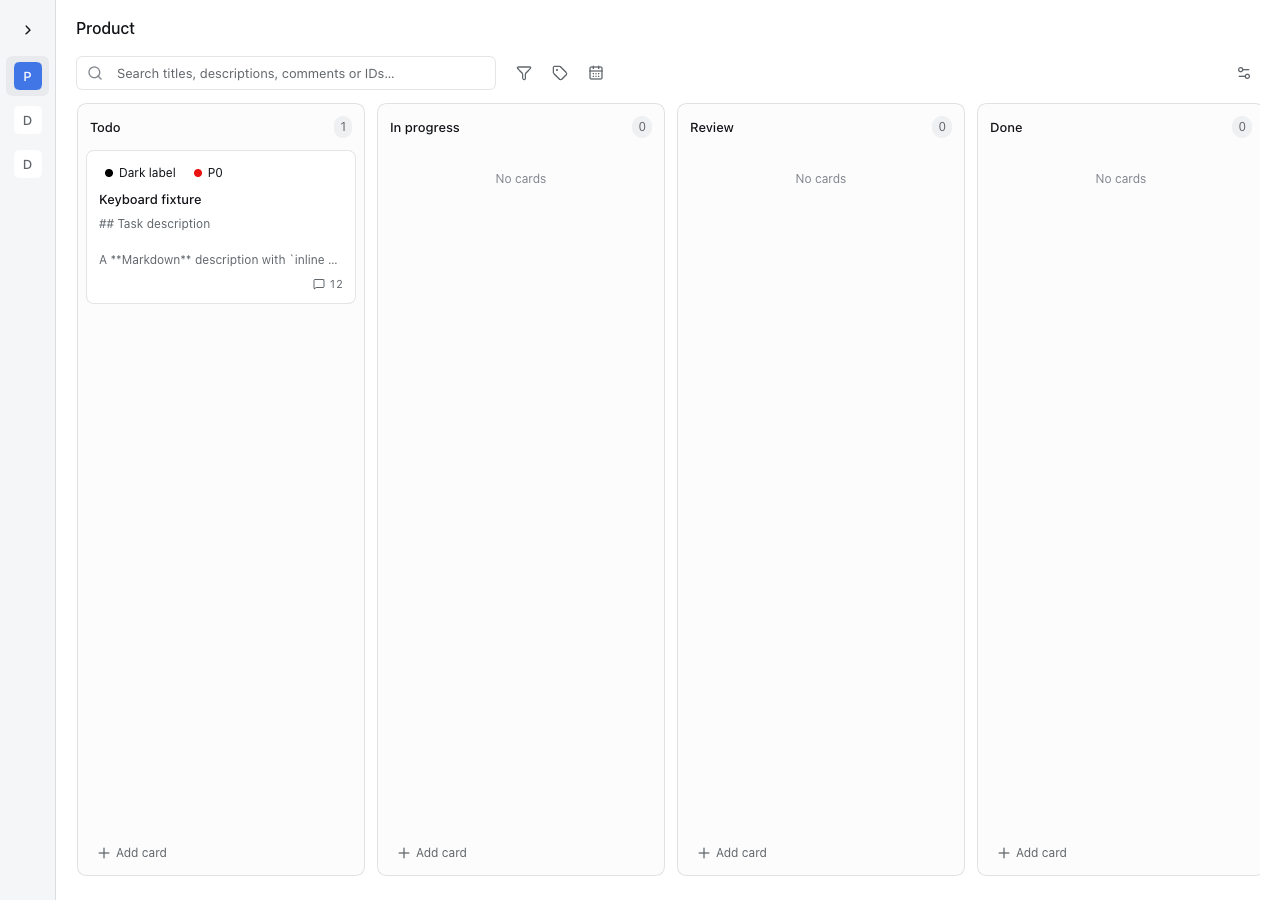
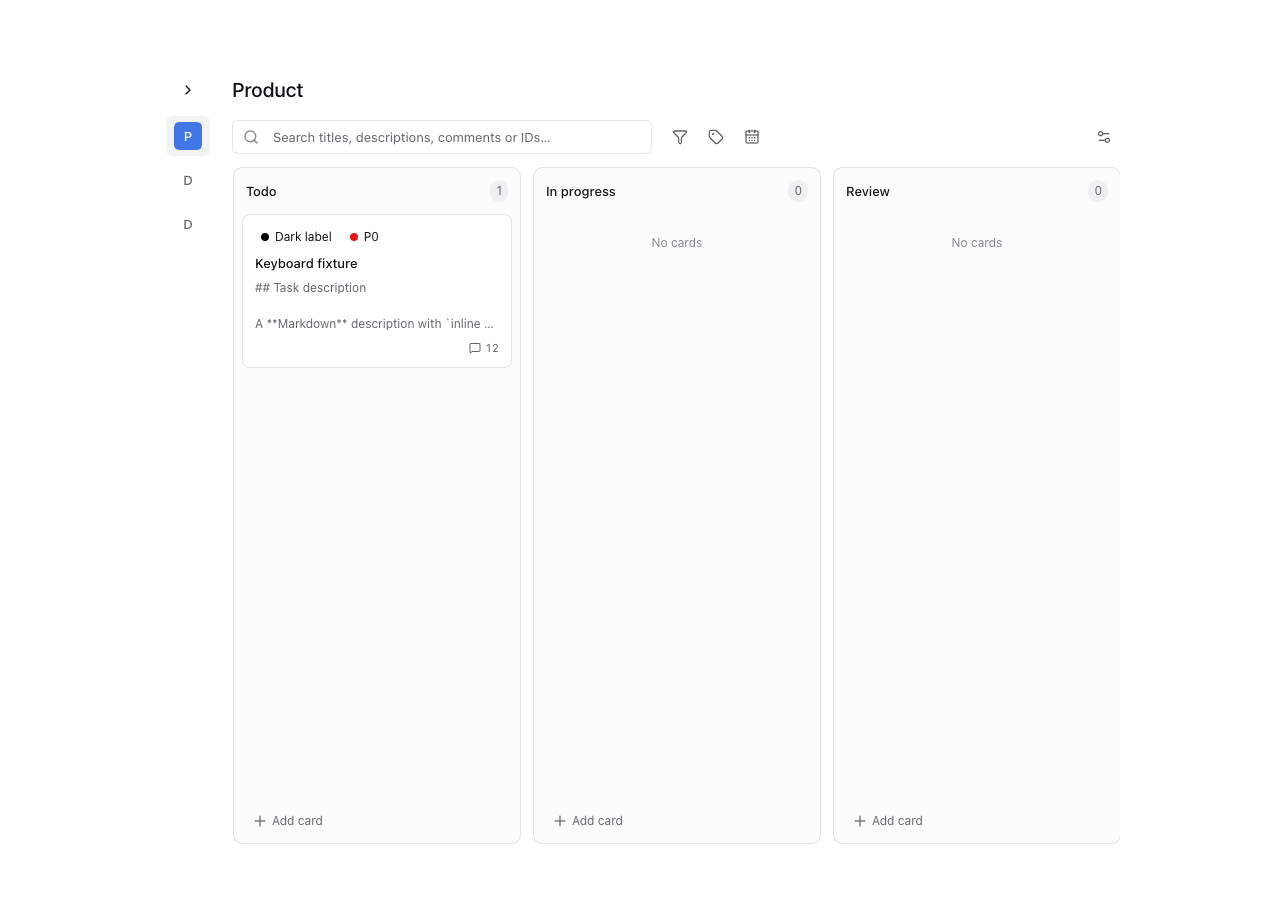
fix: align kanban page spacing with DSH panels

diff --git a/lib/client.js b/lib/client.js
@@ -60,6 +60,15 @@ window.__ModuleLoader__.load({
   min-height: 0;
   overflow: hidden;
   container-type: inline-size;
+  max-width: 1056px;
+  margin-inline: auto;
+  gap: 16px;
+  padding: 28px clamp(24px, 4vw, 48px) 48px;
+}
+
+/* Match DSH entry pages while keeping window chrome outside the content. */
+html[data-platform="darwin"] .kanban-panel {
+  padding-top: calc(28px + var(--dsh-frame-top-clearance, 0px));
 }
 
 .kanban-workspaces {
@@ -69,9 +78,9 @@ window.__ModuleLoader__.load({
   flex: 0 0 auto;
   flex-direction: column;
   gap: 12px;
-  padding: 16px 8px;
-  border-right: 1px solid var(--dsw-alias-border-l2);
-  background: var(--dsw-alias-bg-module-platform);
+  max-height: 100%;
+  align-self: flex-start;
+  padding: 0 8px;
 }
 
 .kanban-workspaces-heading {
@@ -166,39 +175,33 @@ window.__ModuleLoader__.load({
 
 .kanban-panel-header {
   flex-shrink: 0;
-  padding: 16px 20px 8px;
+  padding: 0 0 8px;
 }
 
 .kanban-panel-header h1 {
   margin: 0;
   overflow: hidden;
-  font-size: 16px;
+  font-size: 20px;
   font-weight: 500;
-  line-height: 24px;
+  line-height: 28px;
   text-overflow: ellipsis;
   white-space: nowrap;
 }
 
 .kanban-panel-empty {
-  padding: 32px 20px;
+  padding: 32px 0;
   color: var(--dsw-alias-label-secondary);
 }
 
 .kanban-panel-body > .kanban-view {
   height: auto;
   flex: 1;
-  padding: 8px 20px 16px;
+  padding: 8px 0 0;
 }
 
 @container (max-width: 720px) {
   .kanban-workspace-button {
     height: 44px;
-  }
-  .kanban-panel-header {
-    padding-inline: 12px;
-  }
-  .kanban-panel-body > .kanban-view {
-    padding-inline: 12px;
   }
 }
 

diff --git a/src/client/styles.css b/src/client/styles.css
@@ -55,6 +55,15 @@
   min-height: 0;
   overflow: hidden;
   container-type: inline-size;
+  max-width: 1056px;
+  margin-inline: auto;
+  gap: 16px;
+  padding: 28px clamp(24px, 4vw, 48px) 48px;
+}
+
+/* Match DSH entry pages while keeping window chrome outside the content. */
+html[data-platform="darwin"] .kanban-panel {
+  padding-top: calc(28px + var(--dsh-frame-top-clearance, 0px));
 }
 
 .kanban-workspaces {
@@ -64,9 +73,9 @@
   flex: 0 0 auto;
   flex-direction: column;
   gap: 12px;
-  padding: 16px 8px;
-  border-right: 1px solid var(--dsw-alias-border-l2);
-  background: var(--dsw-alias-bg-module-platform);
+  max-height: 100%;
+  align-self: flex-start;
+  padding: 0 8px;
 }
 
 .kanban-workspaces-heading {
@@ -161,39 +170,33 @@
 
 .kanban-panel-header {
   flex-shrink: 0;
-  padding: 16px 20px 8px;
+  padding: 0 0 8px;
 }
 
 .kanban-panel-header h1 {
   margin: 0;
   overflow: hidden;
-  font-size: 16px;
+  font-size: 20px;
   font-weight: 500;
-  line-height: 24px;
+  line-height: 28px;
   text-overflow: ellipsis;
   white-space: nowrap;
 }
 
 .kanban-panel-empty {
-  padding: 32px 20px;
+  padding: 32px 0;
   color: var(--dsw-alias-label-secondary);
 }
 
 .kanban-panel-body > .kanban-view {
   height: auto;
   flex: 1;
-  padding: 8px 20px 16px;
+  padding: 8px 0 0;
 }
 
 @container (max-width: 720px) {
   .kanban-workspace-button {
     height: 44px;
-  }
-  .kanban-panel-header {
-    padding-inline: 12px;
-  }
-  .kanban-panel-body > .kanban-view {
-    padding-inline: 12px;
   }
 }
 
